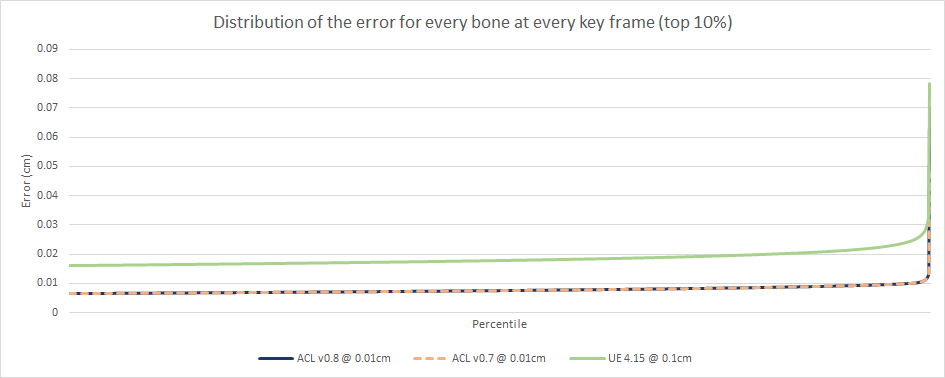
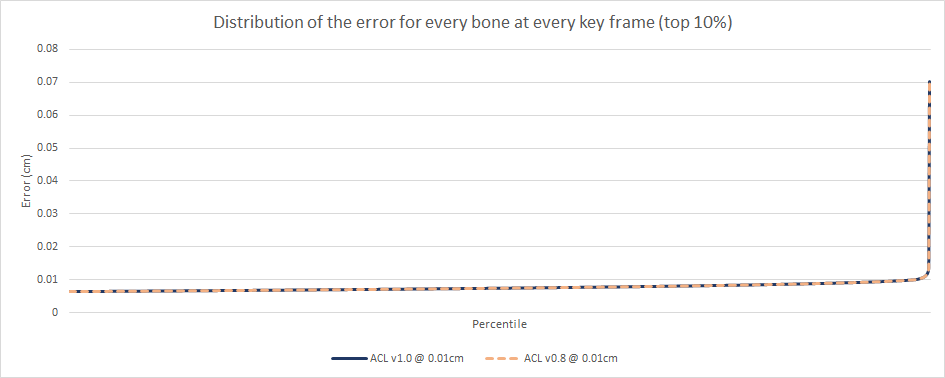
Updating CMU stats. UE4 metrics were removed because they will now be tracked by the plugin.

diff --git a/docs/cmu_performance_history.md b/docs/cmu_performance_history.md
@@ -2,9 +2,19 @@
 
 To compile the statistics, the animation database from [Carnegie-Mellon University](http://mocap.cs.cmu.edu/) is used.
 
+ACL supports various compression methods but only the overall best variant will be tracked here (see `get_default_compression_settings()` for details).
+
 The error is measured **3cm** away from each bone to simulate the visual mesh skinning process as described [here](error_metrics.md).
 
-Statistics for ACL are being generated with the `acl_compressor` tool found [here](../tools/acl_compressor). It supports various compression methods but only the overall best variant will be tracked here. Every clip uses an error threshold of **0.01cm (0.1mm)**.
+## Results from release [1.0.0](https://github.com/nfrechette/acl/releases/tag/v1.0.0):
+
+*  Raw size: **1429.38 MB**
+*  Compressed size: **67.02 MB**
+*  Compression ratio: **21.33 : 1**
+*  Max error: **0.0703** centimeters (clip *83_11*)
+*  Compression time: **37m 13.14s** (single threaded)
+*  Compression time: **10m 11.49s** (multi threaded on 4 cores)
+*  Best variant: Segmented uniform sampling with variable bit rate and range reduction
 
 ## Results from release [0.8.0](https://github.com/nfrechette/acl/releases/tag/v0.8.0):
 
@@ -12,8 +22,8 @@ Statistics for ACL are being generated with the `acl_compressor` tool found [her
 *  Compressed size: **67.02 MB**
 *  Compression ratio: **21.33 : 1**
 *  Max error: **0.0703** centimeters (clip *122_11*)
-*  Compression time: **00h 36m 27.22s** (single threaded)
-*  Compression time: **00h 11m 03.60s** (multi threaded on 4 cores)
+*  Compression time: **36m 27.22s** (single threaded)
+*  Compression time: **11m 03.60s** (multi threaded on 4 cores)
 *  Best variant: Segmented uniform sampling with variable bit rate and range reduction
 
 ## Results from release [0.7.0](https://github.com/nfrechette/acl/releases/tag/v0.7.0):
@@ -22,8 +32,8 @@ Statistics for ACL are being generated with the `acl_compressor` tool found [her
 *  Compressed size: **67.04 MB**
 *  Compression ratio: **21.32 : 1**
 *  Max error: **0.0479** centimeters (clip *81_18*)
-*  Compression time: **00h 51m 24.01s** (single threaded)
-*  Compression time: **00h 13m 38.96s** (multi threaded on 4 cores)
+*  Compression time: **51m 24.01s** (single threaded)
+*  Compression time: **13m 38.96s** (multi threaded on 4 cores)
 *  Best variant: Segmented uniform sampling with variable bit rate and range reduction
 
 ## Results from release [0.6.0](https://github.com/nfrechette/acl/releases/tag/v0.6.0):
@@ -32,8 +42,8 @@ Statistics for ACL are being generated with the `acl_compressor` tool found [her
 *  Compressed size: **67.04 MB**
 *  Compression ratio: **21.32 : 1**
 *  Max error: **0.0479** centimeters (clip *81_18*)
-*  Compression time: **00h 51m 40.20s** (single threaded)
-*  Compression time: **00h 13m 04.58s** (multi threaded on 4 cores)
+*  Compression time: **51m 40.20s** (single threaded)
+*  Compression time: **13m 04.58s** (multi threaded on 4 cores)
 *  Best variant: Segmented uniform sampling with variable bit rate and range reduction
 
 
@@ -55,8 +65,8 @@ Statistics for ACL are being generated with the `acl_compressor` tool found [her
 *  Compressed size: **82.25 MB**
 *  Compression ratio: **12.16 : 1**
 *  Max error: **0.0635** centimeters (clip *144_32*)
-*  Compression time: **00h 50m 38.96s** (single threaded)
-*  Compression time: **00h 05m 27.05s** (multi threaded on 11 cores)
+*  Compression time: **50m 38.96s** (single threaded)
+*  Compression time: **05m 27.05s** (multi threaded on 11 cores)
 *  Best variant: Segmented uniform sampling with variable bit rate and range reduction
 
 *Note: There was a bug in fbx2acl truncating the last sample in 0.3.0 and older versions.*

diff --git a/docs/cmu_performance.md b/docs/cmu_performance.md
@@ -9,42 +9,25 @@ They were converted to the [ACL file format](the_acl_file_format.md) using the [
 *  Total duration: **09h 49m 37.58s**
 *  Raw size: **1429.38 MB** (10x float32 * num bones * num samples)
 
-For ACL and Unreal 4, the error is measured **3cm** away from each bone to simulate the visual mesh skinning process as described [here](error_metrics.md).
+ACL supports various compression methods but only the overall best variant will be tracked here (see `get_default_compression_settings()` for details).
 
-*  [ACL](cmu_performance.md#acl)
-*  [Unreal 4](cmu_performance.md#unreal-4)
-*  [Results in images](cmu_performance.md#results-in-images)
+The error is measured **3cm** away from each bone to simulate the visual mesh skinning process as described [here](error_metrics.md).
 
-# ACL
+The performance of ACL in Unreal Engine 4 is tracked by the plugin [here](https://github.com/nfrechette/acl-ue4-plugin/blob/develop/Docs/cmu_performance.md).
 
-Statistics for ACL are being generated with the `acl_compressor` tool found [here](../tools/acl_compressor). It supports various compression methods but only the overall best variant will be tracked here: variable bit rate with range reduction enabled. Every clip uses an error threshold of **0.01cm (0.1mm)**.
+# Summary
 
 *  Compressed size: **67.02 MB**
 *  Compression ratio: **21.33 : 1**
-*  Max error: **0.0703** centimeters (clip *122_11*)
-*  Compression time: **00h 36m 27.22s** (single threaded)
-*  Compression time: **00h 11m 03.60s** (multi threaded on 4 cores)
+*  Max error: **0.0703** centimeters (clip *83_11*)
+*  Compression time: **37m 13.14s** (single threaded)
+*  Compression time: **10m 11.49s** (multi threaded on 4 cores)
 
 Note that you can compress any number of clips in parallel with multiple threads but each clip uses a single thread for now.
 
-**Results from release [0.8.0](https://github.com/nfrechette/acl/releases/tag/v0.8.0)**
+**Results from release [1.0.0](https://github.com/nfrechette/acl/releases/tag/v1.0.0)**
 
 See [here](cmu_performance_history.md) for a history of performance progress across the various releases.
-
-# Unreal 4
-
-In order to measure statistics in *Unreal 4*, ACL was integrated along with a small [commandlet](../tools/ue4_stats_dump) to run the necessary compression and decompression logic. Everything uses the default values from the automatic compression settings which performs an exhaustive search of the best compression variant. As described [here](http://nfrechette.github.io/2017/01/11/anim_compression_unreal4/), the automatic compression tries many algorithms and settles on the best memory footprint that is also under the desired error threshold. The default error threshold is **1.0cm** but here we used **0.1cm** which is more realistic for production use.
-
-*  Compressed size: **108.00 MB**
-*  Compression ratio: **13.23 : 1**
-*  Max error: **0.0785** centimeters (clip *88_06*)
-*  Compression time: **02h 51m 20.21s** (single threaded)
-
-Sadly the *Unreal 4* compression logic does not *yet* support multi-threading and must be run from the main thread.
-
-*Note: Down-sampling variants were causing issues and were disabled in the interest of keeping things fair. This speeds up the compression time considerably but does not affect the compressed size much.*
-
-**Results from Unreal 4.15.0**
 
 # Results in images
 
